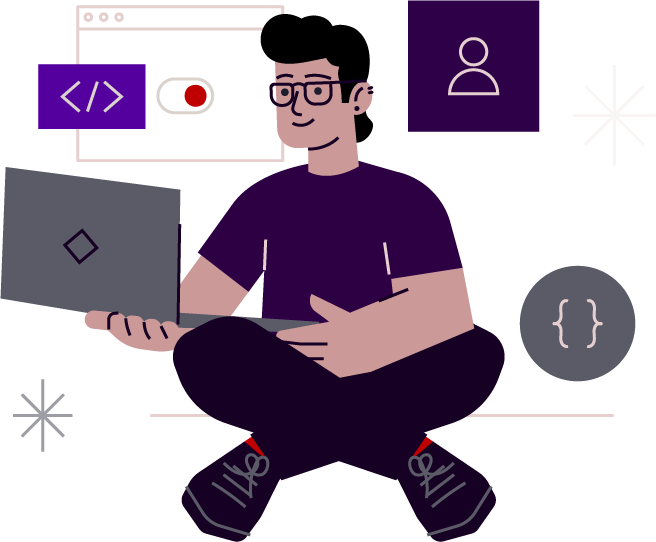
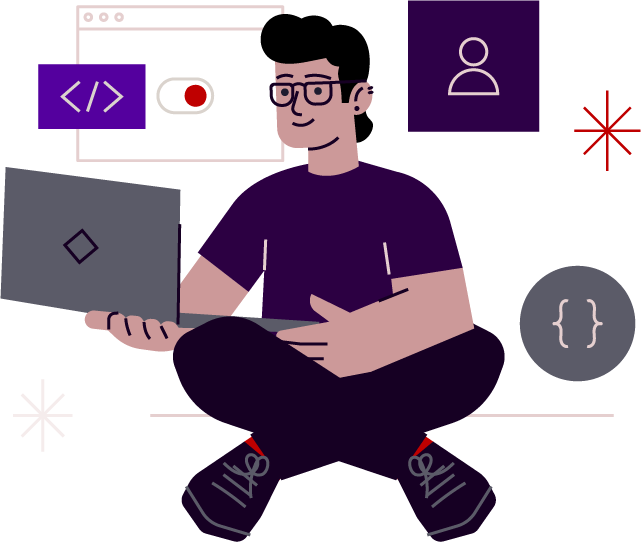
Finaliza os textos e rodape

diff --git a/sobre-mim.html b/sobre-mim.html
@@ -80,10 +80,10 @@
                             <div class="accordion-content">
                                 <div class="content-inner">
                                     <ol class="skill-accordeon-text">
-                                        <li>Estruturação semântica de páginas web.</li>
-                                        <li>Otimização para motores de busca (SEO técnico).</li>
-                                        <li>Implementação de padrões de acessibilidade digital.</li>
-                                        <li>Organização da arquitetura de tags do site.</li>
+                                        <li class="accordeon-list">Estruturação semântica de páginas web.</li>
+                                        <li class="accordeon-list">Otimização para motores de busca (SEO técnico).</li>
+                                        <li class="accordeon-list">Implementação de padrões de acessibilidade digital.</li>
+                                        <li class="accordeon-list">Organização da arquitetura de tags do site.</li>
                                     </ol>
                                 </div>
                             </div>
@@ -103,10 +103,10 @@
                             <div class="accordion-content">
                                 <div class="content-inner">
                                     <ol class="skill-accordeon-text">
-                                        <li>Criação de menus retráteis, abas navegáveis e carrosséis de imagens.</li>
-                                        <li>Aplicação de efeitos visuais acionados por cliques ou rolagem de página.
-                                        </li>
-                                        <li>Validação de campos em formulários e armazenamento de informações locais no
+                                        <li class="accordeon-list">Criação de menus retráteis, abas navegáveis e carrosséis de imagens.</li>
+                                        <li class="accordeon-list">Aplicação de efeitos visuais acionados por cliques ou rolagem de página.
+                                        </li class="accordeon-list">
+                                        <li class="accordeon-list">Validação de campos em formulários e armazenamento de informações locais no
                                             navegador.
                                         </li>
                                     </ol>
@@ -128,9 +128,9 @@
                             <div class="accordion-content">
                                 <div class="content-inner">
                                     <ol class="skill-accordeon-text">
-                                        <li>Desenvolvimento de sites com diversos temas e plugins</li>
-                                        <li>Otimização de carregamento de páginas e cache.</li>
-                                        <li>Integração de lojas virtuais e landing pages.</li>
+                                        <li class="accordeon-list">Desenvolvimento de sites com diversos temas e plugins</li>
+                                        <li class="accordeon-list">Otimização de carregamento de páginas e cache.</li>
+                                        <li class="accordeon-list">Integração de lojas virtuais e landing pages.</li>
                                     </ol>
                                 </div>
                             </div>
@@ -152,10 +152,10 @@
                             <div class="accordion-content">
                                 <div class="content-inner">
                                     <ol class="skill-accordeon-text">
-                                        <li>Desenvolvimento responsivo com Flexbox e Grid Layout.</li>
-                                        <li>Estilização de interfaces e controle de layouts.</li>
-                                        <li>Criação de animações e microinterações nativas.</li>
-                                        <li>Resolução de quebras de layout em múltiplos dispositivos.</li>
+                                        <li class="accordeon-list">Desenvolvimento responsivo com Flexbox e Grid Layout.</li>
+                                        <li class="accordeon-list">Estilização de interfaces e controle de layouts.</li>
+                                        <li class="accordeon-list">Criação de animações e microinterações nativas.</li>
+                                        <li class="accordeon-list">Resolução de quebras de layout em múltiplos dispositivos.</li>
                                     </ol>
                                 </div>
                             </div>
@@ -175,9 +175,9 @@
                             <div class="accordion-content">
                                 <div class="content-inner">
                                     <ol class="skill-accordeon-text">
-                                        <li>Controle de versão de código e rastreamento de alterações.</li>
-                                        <li>Gerenciamento de repositórios remotos e fluxos em equipe.</li>
-                                        <li>Envio seguro de atualizações locais para o servidor.</li>
+                                        <li class="accordeon-list">Controle de versão de código e rastreamento de alterações.</li>
+                                        <li class="accordeon-list">Gerenciamento de repositórios remotos e fluxos em equipe.</li>
+                                        <li class="accordeon-list">Envio seguro de atualizações locais para o servidor.</li>
                                         </li>
                                     </ol>
                                 </div>
@@ -198,9 +198,9 @@
                             <div class="accordion-content">
                                 <div class="content-inner">
                                     <ol class="skill-accordeon-text">
-                                        <li>Desenvolvimento de layouts responsivos para múltiplos dispositivos.</li>
-                                        <li>Criação de templates globais de cabeçalho, rodapé e posts.</li>
-                                        <li>Integração de formulários, pop-ups e widgets dinâmicos.</li>
+                                        <li class="accordeon-list">Desenvolvimento de layouts responsivos para múltiplos dispositivos.</li>
+                                        <li class="accordeon-list">Criação de templates globais de cabeçalho, rodapé e posts.</li>
+                                        <li v>Integração de formulários, pop-ups e widgets dinâmicos.</li>
                                     </ol>
                                 </div>
                             </div>
@@ -234,10 +234,10 @@
                             <div class="accordion-content">
                                 <div class="content-inner">
                                     <ol class="skill-accordeon-text">
-                                        <li>Criação de logotipos, identidades visuais e marcas.</li>
-                                        <li>Desenvolvimento de iconografia e ilustrações vetoriais.</li>
-                                        <li>Diagramação de materiais impressos e institucionais.</li>
-                                        <li>Fechamento de arquivos para impressão e facas de corte.</li>
+                                        <li class="accordeon-list">Criação de logotipos, identidades visuais e marcas.</li>
+                                        <li class="accordeon-list">Desenvolvimento de iconografia e ilustrações vetoriais.</li>
+                                        <li class="accordeon-list">Diagramação de materiais impressos e institucionais.</li>
+                                        <li class="accordeon-list">Fechamento de arquivos para impressão e facas de corte.</li>
                                     </ol>
                                 </div>
                             </div>
@@ -257,9 +257,9 @@
                             <div class="accordion-content">
                                 <div class="content-inner">
                                     <ol class="skill-accordeon-text">
-                                        <li>Edição e montagem de vídeos institucionais e comerciais.</li>
-                                        <li>Animação de anúncios para redes sociais.</li>
-                                        <li>Tratamento de áudios, equalização e sincronização de trilhas.</li>
+                                        <li class="accordeon-list">Edição e montagem de vídeos institucionais e comerciais.</li>
+                                        <li class="accordeon-list">Animação de anúncios para redes sociais.</li>
+                                        <li class="accordeon-list">Tratamento de áudios, equalização e sincronização de trilhas.</li>
                                     </ol>
                                 </div>
                             </div>
@@ -279,10 +279,10 @@
                             <div class="accordion-content">
                                 <div class="content-inner">
                                     <ol class="skill-accordeon-text">
-                                        <li>Criação de layouts de interface (UI) web e mobile.</li>
-                                        <li>Prototipagem interativa para validação de usabilidade.</li>
-                                        <li>Construção de Design Systems com componentes e variantes.</li>
-                                        <li>Exportação de especificações para o desenvolvimento.</li>
+                                        <li class="accordeon-list">Criação de layouts de interface (UI) web e mobile.</li>
+                                        <li class="accordeon-list">Prototipagem interativa para validação de usabilidade.</li>
+                                        <li class="accordeon-list">Construção de Design Systems com componentes e variantes.</li>
+                                        <li class="accordeon-list">Exportação de especificações para o desenvolvimento.</li>
                                     </ol>
                                 </div>
                             </div>
@@ -304,10 +304,10 @@
                             <div class="accordion-content">
                                 <div class="content-inner">
                                     <ol class="skill-accordeon-text">
-                                        <li>Tratamento de fotografias e ajuste técnico de cor.</li>
-                                        <li>Manipulação de imagens e fusões digitais.</li>
-                                        <li>Criação de mockups de produtos e embalagens.</li>
-                                        <li>Desenvolvimento de criativos para anúncios e banners.</li>
+                                        <li class="accordeon-list">Tratamento de fotografias e ajuste técnico de cor.</li>
+                                        <li class="accordeon-list">Manipulação de imagens e fusões digitais.</li>
+                                        <li class="accordeon-list">Criação de mockups de produtos e embalagens.</li>
+                                        <li class="accordeon-list">Desenvolvimento de criativos para anúncios e banners.</li>
                                     </ol>
                                 </div>
                             </div>
@@ -327,9 +327,9 @@
                             <div class="accordion-content">
                                 <div class="content-inner">
                                     <ol class="skill-accordeon-text">
-                                        <li>Criação de motion graphics e animações de texto.</li>
-                                        <li>Desenvolvimento de vinhetas, introduções e transições.</li>
-                                        <li>Animação de elementos de interface (UI Motion).</li>
+                                        <li class="accordeon-list">Criação de motion graphics e animações de texto.</li>
+                                        <li class="accordeon-list">Desenvolvimento de vinhetas, introduções e transições.</li>
+                                        <li class="accordeon-list">Animação de elementos de interface (UI Motion).</li>
                                     </ol>
                                 </div>
                             </div>
@@ -349,10 +349,10 @@
                             <div class="accordion-content">
                                 <div class="content-inner">
                                     <ol class="skill-accordeon-text">
-                                        <li>Vetorização de imagens e desenhos técnicos.</li>
-                                        <li>Diagramação de impressos de grande formato (banners e outdoors).</li>
-                                        <li>Layouts para brindes, estamparia e comunicação visual.</li>
-                                        <li>Preparação de arquivos para plotters e gráficas (CMYK).</li>
+                                        <li class="accordeon-list">Vetorização de imagens e desenhos técnicos.</li>
+                                        <li class="accordeon-list">Diagramação de impressos de grande formato (banners e outdoors).</li>
+                                        <li class="accordeon-list">Layouts para brindes, estamparia e comunicação visual.</li>
+                                        <li class="accordeon-list">Preparação de arquivos para plotters e gráficas (CMYK).</li>
                                     </ol>
                                 </div>
                             </div>
@@ -410,9 +410,14 @@
                                     </div>
                                     <div class="accordion-content">
                                         <div class="content-simple-inner">
-                                            <p>Descrição das atividades realizadas como autônomo, projetos desenvolvidos
-                                                e
-                                                tecnologias utilizadas.</p>
+                                            <p>Desenvolvimento e manutenção de site com foco em UX/UI e conversão de
+                                                vendas. Incluindo a criação das páginas e interfaces até a otimização
+                                                contínua de
+                                                performance e implementação de estratégias de SEO.
+
+                                                Responsável também pelo atendimento às demandas diárias de design
+                                                gráfico, atuando na produção e edição de anúncios estáticos e vídeos de
+                                                alta performance para campanhas nas redes sociais.</p>
                                         </div>
                                     </div>
                                 </div>

diff --git a/contato.html b/contato.html
@@ -115,7 +115,7 @@
 
                 <div class="link-grid">
 
-                    <a href="#" target="_blank" class="link-card">
+                    <a href="http://wa.me/+5515981153168/" target="_blank" class="link-card">
                         <div class="link-icon">
                             <svg xmlns="http://www.w3.org/2000/svg" viewBox="0 0 256.59 256.71">
                                 <path
@@ -130,11 +130,13 @@
                         </div>
                     </a>
 
-                    <a href="#" target="_blank" class="link-card">
+                    <a href="mailto:contato@vitormartins.net" target="_blank" class="link-card">
                         <div class="link-icon">
-                            <svg xmlns="http://www.w3.org/2000/svg" viewBox="0 0 131.34 125.9">
+                            <svg xmlns="http://www.w3.org/2000/svg" viewBox="0 0 131.34 120.39">
                                 <path
-                                    d="M131.34,60.63v7.7c-.98,11.42-4.38,22.21-10.87,31.71-8.3,12.26-20.55,21.41-34.7,25.75-1.03.32-2.39-.26-3-.76-.67-.55-1-1.58-1-2.57l.06-17.95c.02-4.22-1.35-8.48-4.27-11.51,12.61-1.4,23.36-5.61,27.73-18.12,1.5-4.2,1.95-8.45,2.07-12.92.18-6.75-2.05-13.12-6.7-18.06,2-5.64,1.53-11.7-.75-17.19-2.38-.21-4.39.22-6.53.85-4.07,1.4-7.71,3.41-11.36,5.83-10.79-2.86-21.96-2.89-32.84,0-4.78-3.06-11.9-7.27-17.99-6.69-2.27,5.34-2.79,11.64-.7,17.21-4.49,4.78-6.79,10.92-6.72,17.49.13,12.37,3.8,22.9,15.75,28.18,4.39,1.99,8.93,2.81,14.01,3.49-2.29,2.41-3.56,5.27-3.99,8.59-3.27,1.47-6.71,2.09-10.21,1.47-3.63-.73-6.54-3-8.49-6.14-1.78-2.88-4.06-5.34-7.27-6.57-1.77-.68-5.38-1.25-6.12.16-.6,1.15,2.43,2.99,3.35,3.63,2.79,1.92,4.45,4.72,5.94,7.72,3.41,9.86,13.1,11.81,22.55,9.78l.05,11.31c0,2.08-2.03,3.06-4.04,2.86-14.81-4.72-27.53-14.57-35.76-27.83C-4.2,75.89-3,47.67,12.47,26.71,25.1,9.62,45.2-.23,66.44,0c22.59.25,43.57,11.95,55.44,31.15,5.57,9.02,8.58,19.06,9.46,29.47Z" />
+                                    d="M131.09,24.86l-46.07,46.07c-10.69,10.67-28.01,10.67-38.7,0L.25,24.86c-.08.86-.25,1.65-.25,2.51v65.67c.02,15.1,12.26,27.34,27.36,27.36h76.61c15.1-.02,27.34-12.26,27.36-27.36V27.36c0-.86-.18-1.64-.25-2.51Z" />
+                                <path
+                                    d="M77.28,63.18L127.27,13.19C122.34,5.03,113.51.03,103.98,0H27.36C17.83.03,9,5.03,4.07,13.19l49.99,49.99c6.42,6.4,16.8,6.4,23.22,0Z" />
                             </svg>
                         </div>
                         <div class="link-content">
@@ -159,9 +161,9 @@
 
                     <a href="https://www.linkedin.com/in/vitor-martins-b43408286/" target="_blank" class="link-card">
                         <div class="link-icon">
-                            <svg xmlns="http://www.w3.org/2000/svg" viewBox="0 0 131.34 125.9">
+                            <svg xmlns="http://www.w3.org/2000/svg" viewBox="0 0 131.34 131.33">
                                 <path
-                                    d="M131.34,60.63v7.7c-.98,11.42-4.38,22.21-10.87,31.71-8.3,12.26-20.55,21.41-34.7,25.75-1.03.32-2.39-.26-3-.76-.67-.55-1-1.58-1-2.57l.06-17.95c.02-4.22-1.35-8.48-4.27-11.51,12.61-1.4,23.36-5.61,27.73-18.12,1.5-4.2,1.95-8.45,2.07-12.92.18-6.75-2.05-13.12-6.7-18.06,2-5.64,1.53-11.7-.75-17.19-2.38-.21-4.39.22-6.53.85-4.07,1.4-7.71,3.41-11.36,5.83-10.79-2.86-21.96-2.89-32.84,0-4.78-3.06-11.9-7.27-17.99-6.69-2.27,5.34-2.79,11.64-.7,17.21-4.49,4.78-6.79,10.92-6.72,17.49.13,12.37,3.8,22.9,15.75,28.18,4.39,1.99,8.93,2.81,14.01,3.49-2.29,2.41-3.56,5.27-3.99,8.59-3.27,1.47-6.71,2.09-10.21,1.47-3.63-.73-6.54-3-8.49-6.14-1.78-2.88-4.06-5.34-7.27-6.57-1.77-.68-5.38-1.25-6.12.16-.6,1.15,2.43,2.99,3.35,3.63,2.79,1.92,4.45,4.72,5.94,7.72,3.41,9.86,13.1,11.81,22.55,9.78l.05,11.31c0,2.08-2.03,3.06-4.04,2.86-14.81-4.72-27.53-14.57-35.76-27.83C-4.2,75.89-3,47.67,12.47,26.71,25.1,9.62,45.2-.23,66.44,0c22.59.25,43.57,11.95,55.44,31.15,5.57,9.02,8.58,19.06,9.46,29.47Z" />
+                                    d="M111.91,111.91h-19.46v-30.48c0-7.27-.13-16.62-10.12-16.62s-11.69,7.92-11.69,16.1v31h-19.46v-62.68h18.68v8.56h.26c3.81-6.51,10.89-10.4,18.43-10.12,19.73,0,23.36,12.98,23.36,29.85v34.39ZM29.22,40.66c-6.24,0-11.29-5.05-11.29-11.29s5.05-11.29,11.29-11.29,11.29,5.05,11.29,11.29c0,6.24-5.05,11.29-11.29,11.29h0M38.95,111.91h-19.48v-62.68h19.48v62.68ZM121.61,0H9.69C4.4-.05.06,4.19,0,9.48v112.38c.06,5.29,4.4,9.53,9.69,9.48h111.92c5.3.06,9.66-4.17,9.73-9.48V9.47C131.26,4.17,126.9-.07,121.61,0" />
                             </svg>
                         </div>
                         <div class="link-content">

diff --git a/footer.html b/footer.html
@@ -17,14 +17,23 @@
     <div class="main-footer">
         <div class="container">
             <div class="left-footer-column">
-                <img src="svg/vitor-martins-icon.svg" class="footer-logo-img" alt="">
+                <a href="">
+                    <img src="svg/vitor-martins-icon.svg" class="footer-logo-img">
+                </a>
                 <p>
-                    &copy; <span id="ano-atual"></span> - Desenvolvido por Vitor Martins
+                    &copy; <span id="ano-atual"></span> - Desenvolvido por <a
+                        href="https://www.linkedin.com/in/vitor-martins-b43408286/" target="_blank">Vitor Martins</a>
                 </p>
             </div>
             <div class="right-footer-column">
-                <a href="#">LinkedIn</a> |
-                <a href="#">GitHub</a>
+
+                <a class="footer-github-link" href="https://github.com/v1torm4rtins/vitormartins.net" target="_blank">
+                    <svg class="footer-github-icon" xmlns="http://www.w3.org/2000/svg" viewBox="0 0 131.34 125.9">
+                        <path
+                            d="M131.34,60.63v7.7c-.98,11.42-4.38,22.21-10.87,31.71-8.3,12.26-20.55,21.41-34.7,25.75-1.03.32-2.39-.26-3-.76-.67-.55-1-1.58-1-2.57l.06-17.95c.02-4.22-1.35-8.48-4.27-11.51,12.61-1.4,23.36-5.61,27.73-18.12,1.5-4.2,1.95-8.45,2.07-12.92.18-6.75-2.05-13.12-6.7-18.06,2-5.64,1.53-11.7-.75-17.19-2.38-.21-4.39.22-6.53.85-4.07,1.4-7.71,3.41-11.36,5.83-10.79-2.86-21.96-2.89-32.84,0-4.78-3.06-11.9-7.27-17.99-6.69-2.27,5.34-2.79,11.64-.7,17.21-4.49,4.78-6.79,10.92-6.72,17.49.13,12.37,3.8,22.9,15.75,28.18,4.39,1.99,8.93,2.81,14.01,3.49-2.29,2.41-3.56,5.27-3.99,8.59-3.27,1.47-6.71,2.09-10.21,1.47-3.63-.73-6.54-3-8.49-6.14-1.78-2.88-4.06-5.34-7.27-6.57-1.77-.68-5.38-1.25-6.12.16-.6,1.15,2.43,2.99,3.35,3.63,2.79,1.92,4.45,4.72,5.94,7.72,3.41,9.86,13.1,11.81,22.55,9.78l.05,11.31c0,2.08-2.03,3.06-4.04,2.86-14.81-4.72-27.53-14.57-35.76-27.83C-4.2,75.89-3,47.67,12.47,26.71,25.1,9.62,45.2-.23,66.44,0c22.59.25,43.57,11.95,55.44,31.15,5.57,9.02,8.58,19.06,9.46,29.47Z" />
+                    </svg>
+                    <span class="footer-github-label">Repositório GitHub</span>
+                </a>
             </div>
         </div>
     </div>

diff --git a/css/footer.css b/css/footer.css
@@ -63,8 +63,9 @@ main {
 
 .main-footer .container {
   display: flex;
-  justify-content: space-between;
+  flex-direction: column;
   align-items: center;
+  gap: 20px;
   padding-top: 40px;
   padding-bottom: 40px;
 }
@@ -84,7 +85,36 @@ main {
   transform: scale(1.08);
 }
 
+.right-footer-column {
+  display: flex;
+  gap: 10px;
+  flex-direction: row;
+  align-items: center;
+}
 
+.right-footer-column a {
+  display: flex;
+  align-items: center;
+  justify-content: center;
+}
+
+a.footer-github-link {
+  fill: var(--light-purple-color);
+  gap: 10px;
+}
+
+a.footer-github-link:hover {
+  fill: var(--red-color);
+  color: var(--white-color) !important;
+}
+
+span.footer-github-label:hover {
+  color: var(--white-color) !important;
+}
+
+svg.footer-github-icon {
+  height: 28px;
+}
 
 
 
@@ -101,6 +131,12 @@ main {
 /* ========== RESPONSIVO - TABLET 768+ ==========*/
 
 @media screen and (min-width:768px) {
+  .main-footer .container {
+    flex-direction: row;
+    justify-content: space-between;
+    align-items: center;
+  }
+
   .cta-wrap {
     flex-direction: row;
   }

diff --git a/css/sobre-mim.css b/css/sobre-mim.css
@@ -56,7 +56,7 @@ ul.skill-accordeon-text {
     font-weight: 700;
 }
 
-li {
+.accordeon-list {
     border-bottom: 2px solid #00000010;
     margin-bottom: 0px;
     padding-bottom: 15px;
